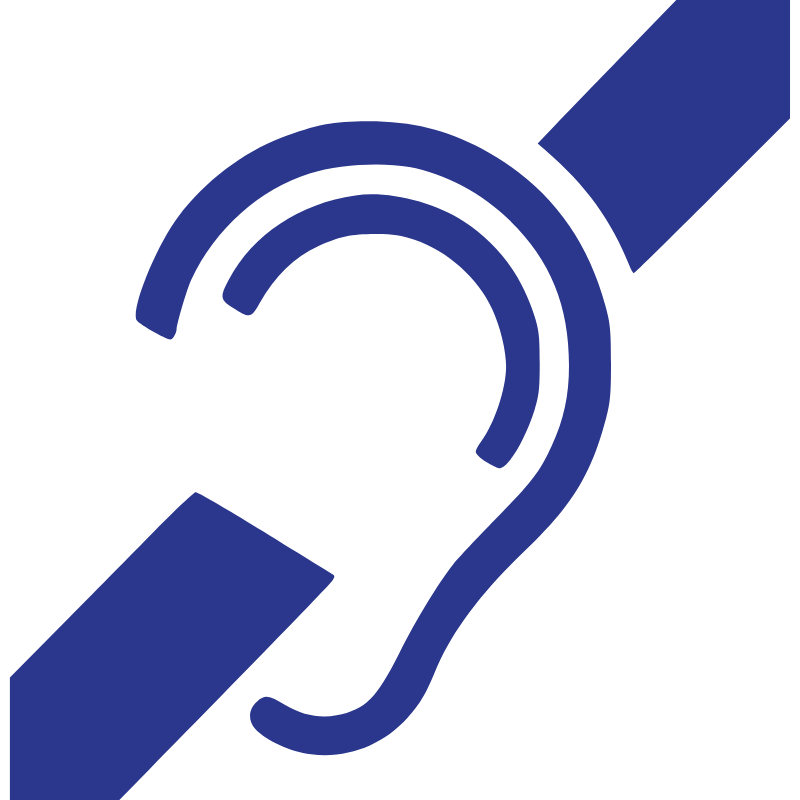
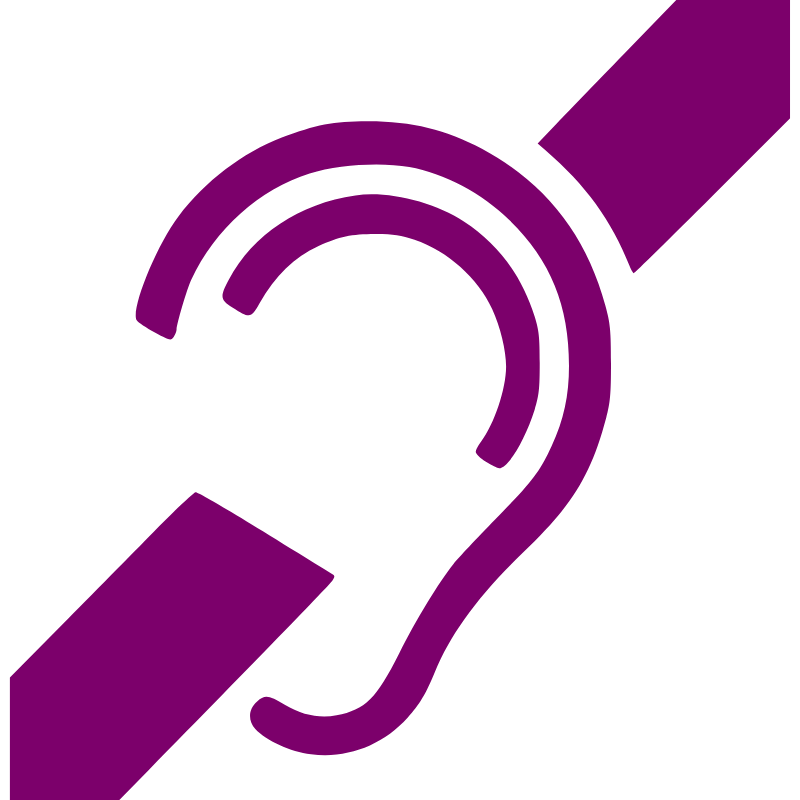
Atualizando cor do símbolo da acessibilidade auditiva

Changed region(s): [[0.1562, 0.0, 1.0, 0.9688], [0.0, 0.5938, 0.4375, 1.0]]

diff --git a/assets/js/mapa.js b/assets/js/mapa.js
@@ -21,19 +21,39 @@ const plantas = {
 };
 
 /**
- * DATABASE DE LUGARES ORIGINAL (Pontos naturais limpos do filtro de acessibilidade)
+ * DATABASE DE LUGARES (Blocos, Salas Internas, Acessibilidade e Alertas)
  */
 const lugares = [
-    { nome: "Ala de Informática (Laboratórios)", tipo: "geral", categoria: "informatica", y: 705, x: 1040 },
-    { nome: "Secretaria / Atendimento", tipo: "auditiva", categoria: "secretaria", y: 637, x: 1100 },
-    { nome: "Bloco de Salas (Edificações)", tipo: "geral", categoria: "edificacoes", y: 720, x: 640 },
-    { nome: "Bloco de Salas (Mecânica)", tipo: "geral", categoria: "mecanica", y: 720, x: 780 },
-    { nome: "Bloco de Salas de Aula (Geral)", tipo: "geral", categoria: "geral", y: 700, x: 950 },
-    { nome: "Biblioteca", tipo: "geral", categoria: "biblioteca", y: 500, x: 1000 },
-    { nome: "Entrada (Ala da biblioteca)", tipo: "geral", categoria: "entrada", y: 540, x: 1000 },
-    { nome: "Entrada Principal", tipo: "geral", categoria: "entrada", y: 350, x: 620 },
-    { nome: "Estacionamento de Ônibus", tipo: "geral", categoria: "estacionamento", y: 320, x: 890 },
-    { nome: "Estacionamento interno", tipo: "geral", categoria: "estacionamento", y: 520, x: 750 }
+    // === PONTOS PRINCIPAIS / BLOCOS ÂNCORAS ===
+    { nome: "Ala de Informática (Laboratórios)", tipo: "geral", categoria: "informatica", y: 705, x: 1040, subponto: false },
+    { nome: "Secretaria / Atendimento", tipo: "auditiva", categoria: "secretaria", y: 637, x: 1100, subponto: false },
+    { nome: "Bloco de Salas (Edificações)", tipo: "geral", categoria: "edificacoes", y: 720, x: 640, subponto: false },
+    { nome: "Bloco de Salas (Mecânica)", tipo: "geral", categoria: "mecanica", y: 720, x: 780, subponto: false },
+    { nome: "Bloco de Salas de Aula (Geral)", tipo: "geral", categoria: "geral", y: 700, x: 950, subponto: false },
+    { nome: "Biblioteca", tipo: "geral", categoria: "biblioteca", y: 500, x: 1000, subponto: false },
+    { nome: "Entrada (Ala da biblioteca)", tipo: "geral", categoria: "entrada", y: 540, x: 1000, subponto: false },
+    { nome: "Entrada Principal", tipo: "geral", categoria: "entrada", y: 350, x: 620, subponto: false },
+    { nome: "Estacionamento de Ônibus", tipo: "geral", categoria: "estacionamento", y: 320, x: 890, subponto: false },
+    { nome: "Estacionamento interno", tipo: "geral", categoria: "estacionamento", y: 520, x: 750, subponto: false },
+    { nome: "Quadra Poliesportiva", tipo: "geral", categoria: "quadra", y: 400, x: 500, subponto: false },
+    { nome: "Refeitório", tipo: "geral", categoria: "refeitorio", y: 450, x: 550, subponto: false },
+    { nome: "Salas Externas", tipo: "geral", categoria: "salas_externas", y: 480, x: 580, subponto: false },
+
+    // === SUBPONTOS / SALAS INTERNAS ===
+    { nome: "Laboratório de Redes (Sala 1)", tipo: "geral", categoria: "informatica", bloco_pai: "informatica", y: 710, x: 1045, subponto: true },
+    { nome: "Laboratório de Software (Sala 2)", tipo: "geral", categoria: "informatica", bloco_pai: "informatica", y: 700, x: 1035, subponto: true },
+    { nome: "Sala 101 - Desenho Técnico", tipo: "geral", categoria: "edificacoes", bloco_pai: "edificacoes", y: 725, x: 645, subponto: true },
+
+    // === PONTOS DE ACESSIBILIDADE DETALHADOS ===
+    { nome: "Sala de Intérpretes (LIBRAS)", tipo: "auditiva", categoria: "sala_interpretes", y: 645, x: 1110, subponto: false },
+    { nome: "Rampa de Acesso - Bloco Geral", tipo: "fisica", categoria: "rampa", y: 690, x: 950, subponto: false },
+    { nome: "Escadaria de Acesso Principal", tipo: "fisica", categoria: "escada", y: 360, x: 620, subponto: false },
+    { nome: "Elevador - Bloco Edificações", tipo: "fisica", categoria: "elevador", bloco_pai: "edificacoes", y: 722, x: 642, subponto: true },
+    { nome: "Vagas Exclusivas PCD - Estacionamento", tipo: "fisica", categoria: "vaga_pcd", y: 515, x: 740, subponto: false },
+
+    // === PONTOS DE ALERTA / CUIDADO NA ACESSIBILIDADE FÍSICA ===
+    { nome: "Alerta: Degrau sem Rampa no Bloco de Mecânica", tipo: "alerta", categoria: "alerta", bloco_pai: "mecanica", y: 715, x: 775, subponto: true },
+    { nome: "Alerta: Calçada Irregular / Acesso à Quadra", tipo: "alerta", categoria: "alerta", y: 410, x: 510, subponto: false }
 ];
 
 let mapa;
@@ -41,30 +61,71 @@ let marcadores = [];
 let camadaImagem = null; 
 let filtroAtual = null;
 let alaAtual = "todos"; 
-let primeiraInicializacao = true; // Variável de controle para iniciar o mapa sem marcadores
+let primeiraInicializacao = true; 
 
 /**
- * DEFINE A COR DO ÍCONE BASEADO NA CATEGORIA
+ * DEFINE A COR DO ÍCONE BASEADO NA CATEGORIA / TIPO DE ACESSIBILIDADE
  */
-function getIcon(categoria) {
+function getIcon(categoria, tipo) {
+    // Caso seja ponto de alerta, carrega a imagem local personalizada de aviso
+    if (tipo === "alerta") {
+        return L.icon({
+            iconUrl: 'assets/images/icone-alerta.png',
+            shadowUrl: "https://unpkg.com/leaflet/dist/images/marker-shadow.png",
+            iconSize: [25, 25],       
+            iconAnchor: [12, 25],     
+            popupAnchor: [0, -22]     
+        });
+    }
+
     let cor = "grey"; 
 
-    if (categoria === "secretaria") cor = "blue";
-    if (categoria === "mecanica") cor = "violet";    
-    if (categoria === "biblioteca") cor = "yellow";    
-    if (categoria === "edificacoes") cor = "red";    
-    if (categoria === "estacionamento") cor = "green"; 
-    if (categoria === "entrada") cor = "orange";
-    if (categoria === "informatica") cor = "black"; 
-    if (categoria === "geral") cor = "grey";    
+    if (tipo === "auditiva") {
+        cor = "red"; // Representação visual em vermelho para o ponto auditivo único
+    } else if (tipo === "fisica") {
+        if (categoria === "vaga_pcd") {
+            cor = "lightgreen"; // Verde claro para vagas de estacionamento PCD
+        } else {
+            cor = "green"; // Verde escuro para rampas, escadas e elevadores
+        }
+    } else {
+        // Cores padrão da infraestrutura estrutural do campus
+        if (categoria === "secretaria") cor = "red";
+        if (categoria === "mecanica") cor = "blue";    
+        if (categoria === "biblioteca") cor = "red";    
+        if (categoria === "edificacoes") cor = "green";    
+        if (categoria === "informatica") cor = "red"; 
+        if (categoria === "geral") cor = "red";   
+        
+        if (
+            categoria === "estacionamento" || 
+            categoria === "entrada" || 
+            categoria === "quadra" || 
+            categoria === "refeitorio" || 
+            categoria === "salas_externas"
+        ) {
+            cor = "orange";
+        }
+    }
 
     return L.icon({
         iconUrl: `https://raw.githubusercontent.com/pointhi/leaflet-color-markers/master/img/marker-icon-${cor}.png`,
         shadowUrl: "https://unpkg.com/leaflet/dist/images/marker-shadow.png",
-        iconSize: [25, 41],
-        iconAnchor: [12, 41],
-        popupAnchor: [1, -34]
+        iconSize: [18, 30],       
+        iconAnchor: [9, 30],       
+        popupAnchor: [1, -26]      
     });
+}
+
+/**
+ * DISPARA ALERTA NA TELA CASO O LOCAL REQUEIRA ATENÇÃO POR FALTA DE INFRAESTRUTURA
+ */
+function checarAlertaNecessidadeMelhoria(lugar) {
+    if (lugar.tipo === "alerta") {
+        setTimeout(() => {
+            alert(`⚠ ATENÇÃO - Ponto de Alerta:\nO local "${lugar.nome}" apresenta barreiras físicas e necessita de melhorias urgentes de acessibilidade!`);
+        }, 300);
+    }
 }
 
 /**
@@ -77,7 +138,7 @@ function initMap() {
         maxZoom: 3
     });
 
-    primeiraInicializacao = true; // Garante que o estado inicial do mapa começa limpo
+    primeiraInicializacao = true; 
     atualizarPlantaDeFundo();
 
     mapa.on('click', function(e) {
@@ -111,12 +172,16 @@ function aplicarFiltrosCombinados() {
     const searchInput = document.getElementById('search-input');
     const termo = searchInput ? searchInput.value.toLowerCase() : "";
 
-    // 1. Filtragem por Ala (se for diferente de "todos", filtra pela ala selecionada)
-    if (alaAtual !== "todos") {
-        filtrados = filtrados.filter(l => l.categoria === alaAtual);
+    // 1. Controle de Visibilidade Macro/Micro por Ala
+    if (alaAtual === "todos") {
+        if (!termo && !filtroAtual) {
+            filtrados = filtrados.filter(l => l.subponto === false);
+        }
+    } else {
+        filtrados = filtrados.filter(l => l.categoria === alaAtual || l.bloco_pai === alaAtual);
     }
 
-    // 2. Filtragem por Tipo de Acessibilidade
+    // 2. Filtragem por Tipo de Acessibilidade / Alerta
     if (filtroAtual) {
         filtrados = filtrados.filter(l => l.tipo === filtroAtual);
     }
@@ -126,13 +191,12 @@ function aplicarFiltrosCombinados() {
         filtrados = filtrados.filter(l => l.nome.toLowerCase().includes(termo));
     }
 
-    // --- LOGICA AJUSTADA ---
-    // Se for a primeira inicialização do app (tela em 'todos') e sem busca por texto:
-    if (alaAtual === "todos" && primeiraInicializacao && !termo) {
-        limparMarcadores(); // Deixa o mapa limpo de pinos
-        atualizarListaLateral(lugares); // MAS atualiza a barra lateral com TODOS os locais do database
+    // 4. Decisão de renderização do mapa limpo no estado inicial
+    if (alaAtual === "todos" && primeiraInicializacao && !termo && !filtroAtual) {
+        limparMarcadores(); 
+        const blocosPrincipais = lugares.filter(l => l.subponto === false);
+        atualizarListaLateral(blocosPrincipais); 
     } else {
-        // Fluxo normal pós-clique ou pós-busca
         mostrarLugares(filtrados);
     }
 }
@@ -141,7 +205,7 @@ function aplicarFiltrosCombinados() {
  * FUNÇÃO DE FILTRAGEM DOS BOTÕES DE ALA
  */
 function filtrarAla(ala, elemento) {
-    primeiraInicializacao = false; // O usuário interagiu, desativa o modo de mapa limpo
+    primeiraInicializacao = false; 
 
     document.querySelectorAll("#seletor-alas .btn-type").forEach(btn => {
         btn.classList.remove("active");
@@ -161,17 +225,25 @@ function mostrarLugares(lista) {
 
     lista.forEach(lugar => {
         const marcador = L.marker([lugar.y, lugar.x], {
-            icon: getIcon(lugar.categoria) 
+            icon: getIcon(lugar.categoria, lugar.tipo) 
         }).addTo(mapa);
 
-        const textoAcessibilidade = lugar.tipo === "geral" ? "Verificar local" : lugar.tipo.toUpperCase();
+        let textoPopup = lugar.tipo.toUpperCase();
+        if (lugar.tipo === "geral") textoPopup = "Ponto de Interesse";
+        if (lugar.tipo === "alerta") textoPopup = "⚠ ATENÇÃO: Barreira Física Encontrada";
+        if (lugar.tipo === "fisica") textoPopup = "Acessibilidade Física";
+        if (lugar.tipo === "auditiva") textoPopup = "Acessibilidade Auditiva";
 
         marcador.bindPopup(`
             <div style="text-align:center;">
                 <strong style="font-size:14px; color:#5a2a83;">${lugar.nome}</strong><br>
-                <span style="color:#666; font-size:12px;">Filtro: ${textoAcessibilidade}</span>
+                <span style="color:#666; font-size:12px;">${textoPopup}</span>
             </div>
         `);
+
+        marcador.on('click', () => {
+            checarAlertaNecessidadeMelhoria(lugar);
+        });
         
         marcadores.push(marcador);
     });
@@ -185,10 +257,10 @@ function limparMarcadores() {
 }
 
 /**
- * FILTRAR POR ACESSIBILIDADE
+ * FILTRAR POR ACESSIBILIDADE OU ALERTA
  */
 function filtrar(tipo, elemento) {
-    primeiraInicializacao = false; // Desativa a trava inicial
+    primeiraInicializacao = false; 
 
     document.querySelectorAll(".filtro").forEach(el => el.classList.remove("ativo"));
 
@@ -205,7 +277,7 @@ function filtrar(tipo, elemento) {
  * BUSCA POR TEXTO
  */
 function pesquisarLugares() {
-    primeiraInicializacao = false; // Desativa a trava inicial
+    primeiraInicializacao = false; 
     aplicarFiltrosCombinados();
 }
 
@@ -227,7 +299,11 @@ function atualizarListaLateral(lista) {
         const item = document.createElement("div");
         item.className = "item-lugar"; 
         
-        const labelAcessibilidade = lugar.tipo === "geral" ? "Ponto de Interesse" : `Acessibilidade ${lugar.tipo}`;
+        let labelAcessibilidade = "Ponto de Interesse";
+        if (lugar.tipo === "alerta") labelAcessibilidade = "⚠ Alerta de Acessibilidade";
+        else if (lugar.tipo === "fisica") labelAcessibilidade = "Acessibilidade Física";
+        else if (lugar.tipo === "auditiva") labelAcessibilidade = "Acessibilidade Auditiva";
+        else if (lugar.subponto) labelAcessibilidade = "Dependência Interna";
 
         item.innerHTML = `
             <p><strong>${lugar.nome}</strong></p>
@@ -235,11 +311,29 @@ function atualizarListaLateral(lista) {
         `;
         
         item.onclick = () => {
-            // Se o usuário clicar em um item da lista enquanto o mapa estiver no estado inicial limpo,
-            // nós desativamos a trava para criar o marcador do ponto onde ele clicou!
+            checarAlertaNecessidadeMelhoria(lugar);
+
             if (primeiraInicializacao) {
                 primeiraInicializacao = false;
+                
+                if (lugar.subponto && lugar.bloco_pai) {
+                    alaAtual = lugar.bloco_pai;
+                    atualizarPlantaDeFundo();
+                    return;
+                }
+                
                 aplicarFiltrosCombinados();
+            }
+
+            if (!lugar.subponto && plantas[lugar.categoria] && alaAtual === "todos") {
+                alaAtual = lugar.categoria;
+                const btnCorrespondente = document.querySelector(`#seletor-alas .btn-type[onclick*="'${lugar.categoria}'"]`);
+                if (btnCorrespondente) {
+                    document.querySelectorAll("#seletor-alas .btn-type").forEach(btn => btn.classList.remove("active"));
+                    btnCorrespondente.classList.add("active");
+                }
+                atualizarPlantaDeFundo();
+                return;
             }
 
             mapa.setView([lugar.y, lugar.x], 1);
@@ -255,12 +349,12 @@ function atualizarListaLateral(lista) {
 }
 
 /**
- * MOSTRAR TODOS (Força a exibição de TODOS os pontos na tela e no mapa)
+ * MOSTRAR TODOS
  */
 function mostrarTodos() {
     filtroAtual = null;
     alaAtual = "todos";
-    primeiraInicializacao = false; // Desativa o mapa inicial limpo, exibindo tudo em ambos os cantos
+    primeiraInicializacao = false; 
 
     document.querySelectorAll(".filtro").forEach(el => el.classList.remove("ativo"));
     
